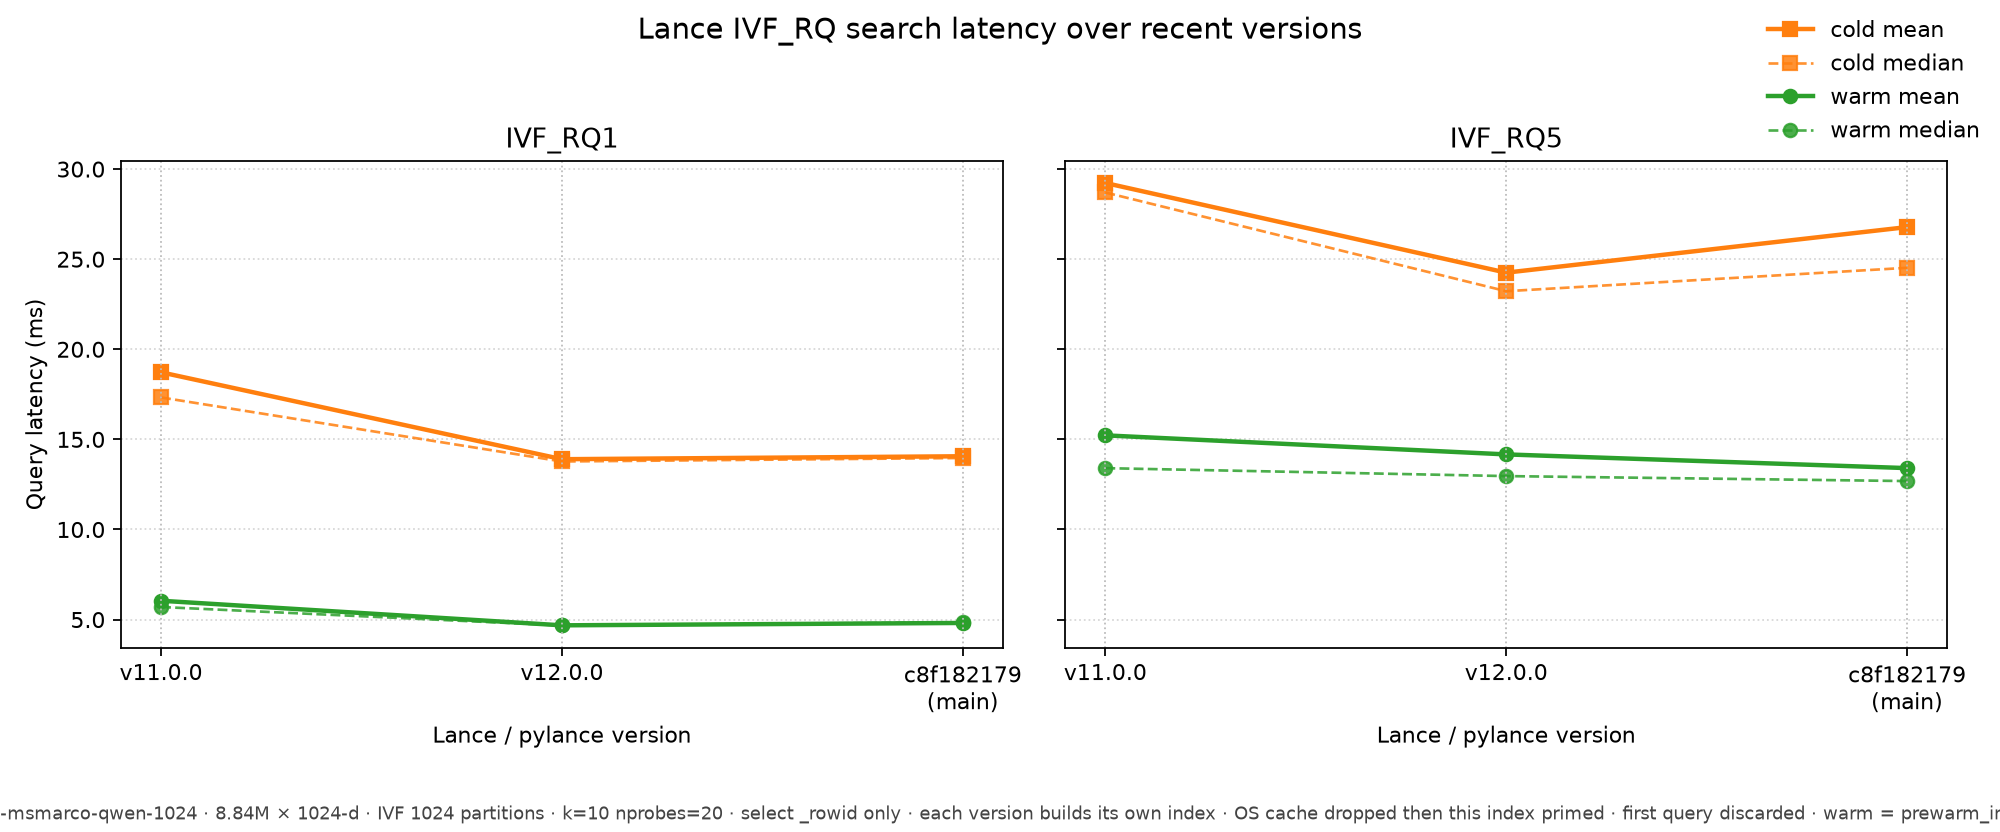
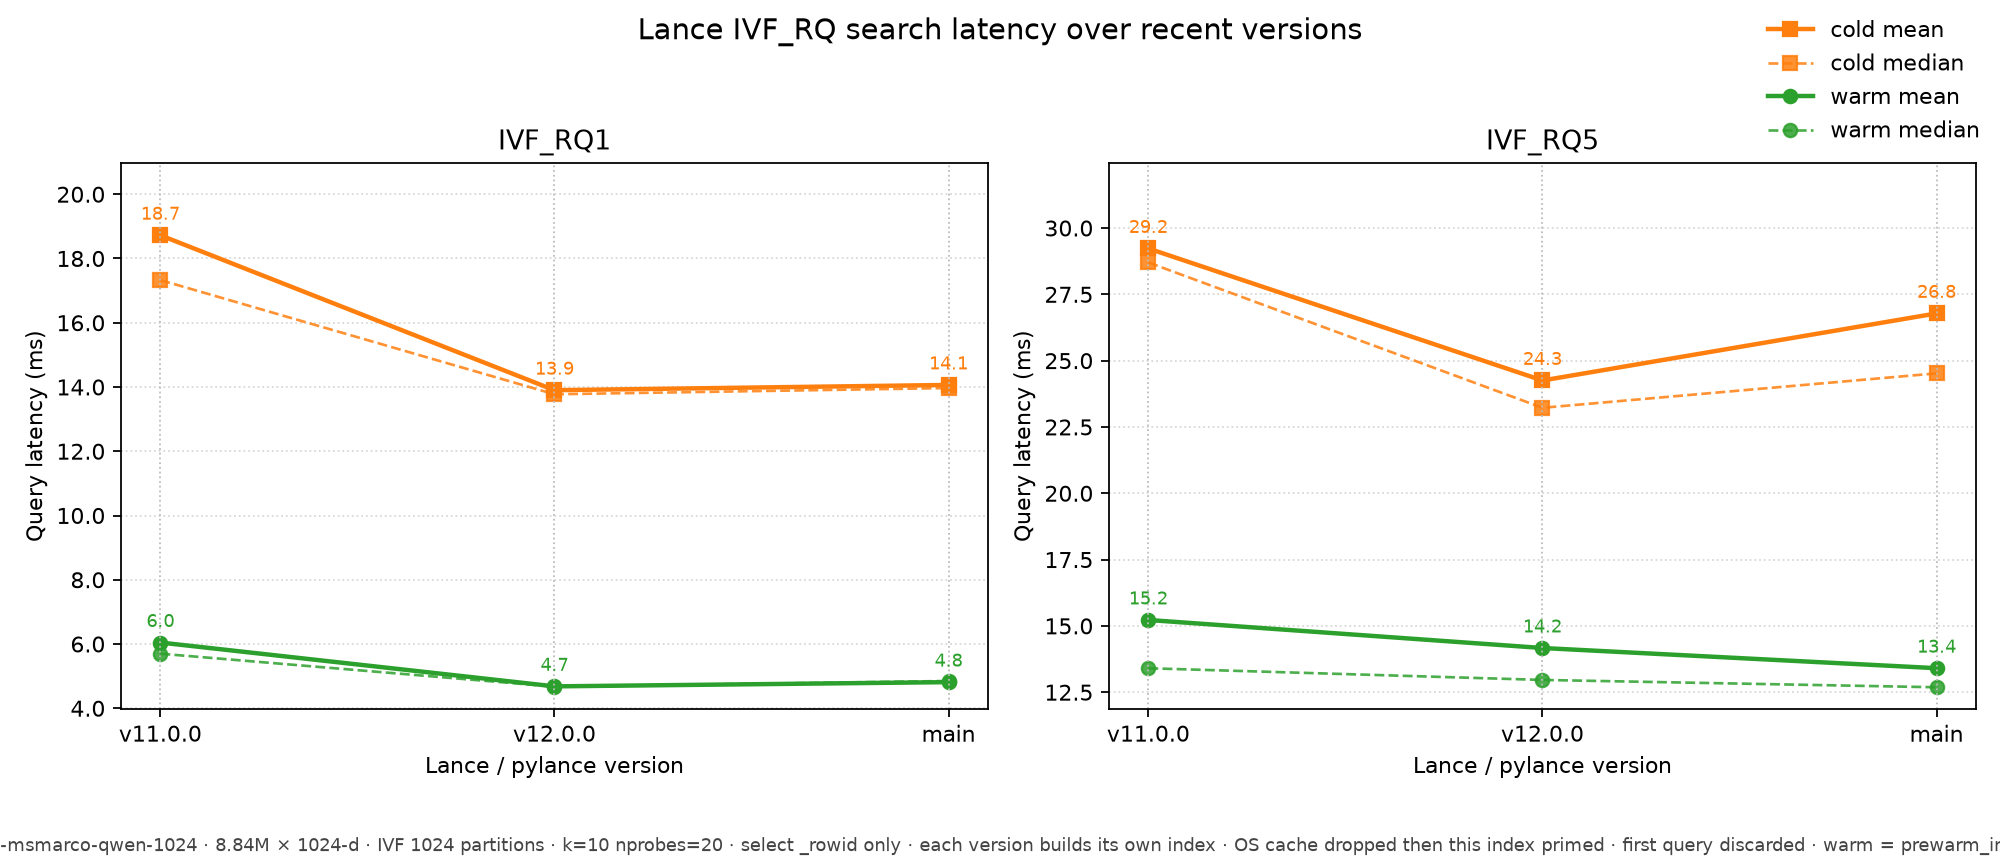
fix(bench): label main on the IVF_RQ chart and annotate values
The SHA+(main) tick wrapped off the axis and a shared y-scale made
the RQ5 cold uptick look like main was last. Short labels and
per-point means make the series readable.

diff --git a/benchmarks/vibe-msmarco/plot.py b/benchmarks/vibe-msmarco/plot.py
@@ -23,6 +23,13 @@ def _sort_key(label: str) -> tuple[int, str]:
     return (len(VERSION_ORDER), label)
 
 
+def axis_label(label: str) -> str:
+    """Keep the last tick readable; a SHA plus '(main)' wraps off the axis."""
+    if label.endswith(" (main)") or " (main)" in label:
+        return "main"
+    return label
+
+
 def _result_paths(results_dir: Path) -> list[Path]:
     manifest = results_dir / "_manifest.json"
     if manifest.exists():
@@ -55,7 +62,7 @@ def plot_results(rows: list[dict], out: Path, subtitle: str) -> None:
         raise SystemExit("no result JSON files found")
 
     indexes = sorted({row["index"] for row in rows})
-    fig, axes = plt.subplots(1, len(indexes), figsize=(12.5, 5.2), sharey=True)
+    fig, axes = plt.subplots(1, len(indexes), figsize=(12.5, 5.4), sharey=False)
     if len(indexes) == 1:
         axes = [axes]
 
@@ -64,9 +71,7 @@ def plot_results(rows: list[dict], out: Path, subtitle: str) -> None:
 
     for ax, index_name in zip(axes, indexes):
         series = [row for row in rows if row["index"] == index_name]
-        labels = [
-            row["label"].replace(" (main)", "\n(main)") for row in series
-        ]
+        labels = [axis_label(row["label"]) for row in series]
         xs = list(range(len(labels)))
         for mode in ("cold", "warm"):
             means = [row[mode]["summary"]["mean_ms"] for row in series]
@@ -89,17 +94,29 @@ def plot_results(rows: list[dict], out: Path, subtitle: str) -> None:
                 alpha=0.85,
                 label=f"{mode} median",
             )
+            for x, mean in zip(xs, means):
+                ax.annotate(
+                    f"{mean:.1f}",
+                    (x, mean),
+                    textcoords="offset points",
+                    xytext=(0, 7),
+                    ha="center",
+                    fontsize=8,
+                    color=colors[mode],
+                )
         for x in xs:
             ax.axvline(x, color="#bbbbbb", linestyle=":", linewidth=0.8)
         ax.set_xticks(xs, labels)
         ax.set_title(index_name)
         ax.set_xlabel("Lance / pylance version")
+        ax.set_ylabel("Query latency (ms)")
         ax.grid(axis="y", linestyle=":", alpha=0.5)
         ax.yaxis.set_major_formatter(ticker.FormatStrFormatter("%.1f"))
+        ymin, ymax = ax.get_ylim()
+        ax.set_ylim(ymin, ymax * 1.08)
 
-    axes[0].set_ylabel("Query latency (ms)")
-    handles, labels = axes[0].get_legend_handles_labels()
-    fig.legend(handles, labels, loc="upper right", frameon=False)
+    handles, legend_labels = axes[0].get_legend_handles_labels()
+    fig.legend(handles, legend_labels, loc="upper right", frameon=False)
     fig.suptitle("Lance IVF_RQ search latency over recent versions", fontsize=13)
     fig.text(
         0.5,

diff --git a/benchmarks/vibe-msmarco/test_plot.py b/benchmarks/vibe-msmarco/test_plot.py
@@ -15,7 +15,7 @@ from bench import (
     split_discard,
     work_corpus_path,
 )
-from plot import load_results, plot_results
+from plot import axis_label, load_results, plot_results
 from run_versions import bench_run_cmd, latest_label
 
 
@@ -156,3 +156,8 @@ def test_prime_os_page_cache_reads_whole_file(tmp_path: Path) -> None:
 
 def test_latest_label_names_engine_revision_not_bench_commit() -> None:
     assert latest_label() == "c8f182179 (main)"
+
+
+def test_axis_label_keeps_main_on_one_line() -> None:
+    assert axis_label("c8f182179 (main)") == "main"
+    assert axis_label("v12.0.0") == "v12.0.0"
